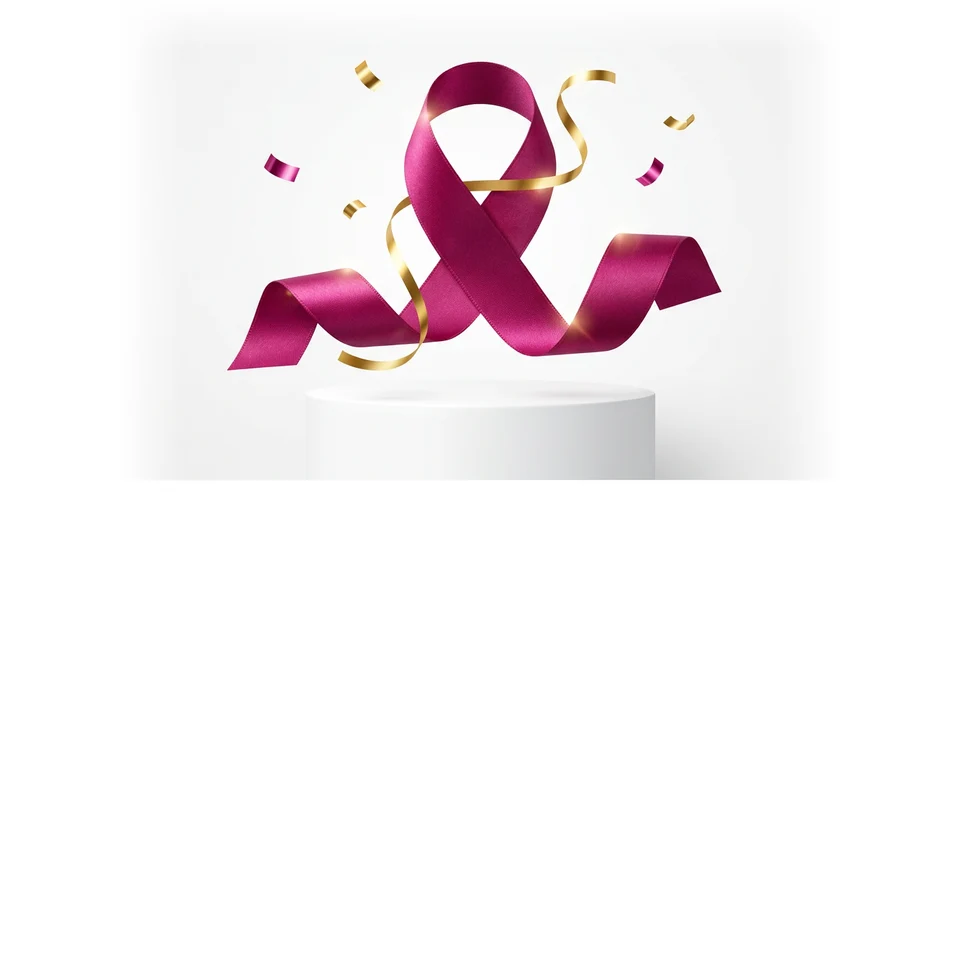
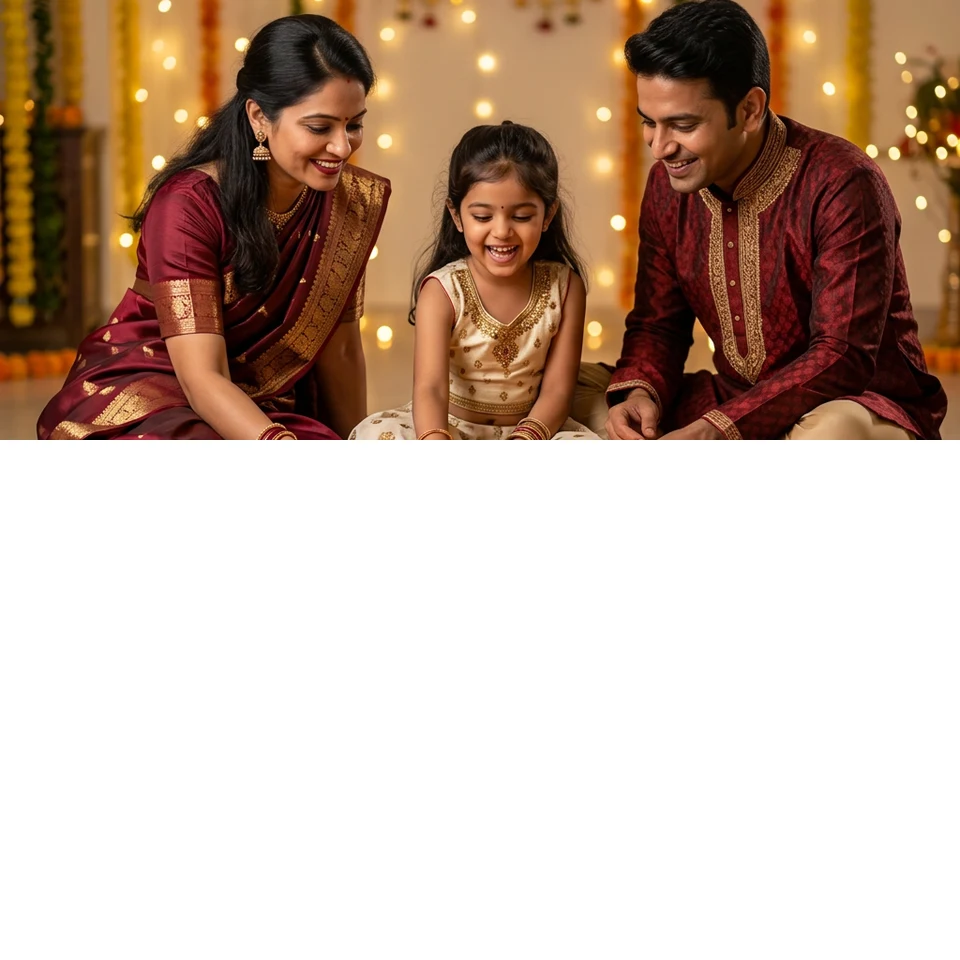
Refresh offer photos and contrast, highlight products and show popups on reload

diff --git a/revamp/src/app/globals.css b/revamp/src/app/globals.css
@@ -154,15 +154,15 @@
 }
 
 /* OFFER COLORS: the one intentional hard-coded palette exception.
-   Dark ink against every gradient endpoint exceeds WCAG AA 4.5:1. */
+   White text against every gradient endpoint exceeds WCAG AA 4.5:1. */
 :root {
-  --offer-ink: #071526;
-  --offer-new-start: #06b6d4;
-  --offer-new-end: #4ade80;
-  --offer-hot-start: #fb7185;
-  --offer-hot-end: #fb923c;
-  --offer-festive-start: #e879f9;
-  --offer-festive-end: #facc15;
+  --offer-ink: #ffffff;
+  --offer-new-start: #075985;
+  --offer-new-end: #065f46;
+  --offer-hot-start: #9f1239;
+  --offer-hot-end: #9a3412;
+  --offer-festive-start: #701a75;
+  --offer-festive-end: #92400e;
 }
 [data-tone="new"] {
   --offer-from: var(--offer-new-start);
@@ -181,7 +181,9 @@
   background: linear-gradient(110deg, var(--offer-from), var(--offer-to));
 }
 .offer-strip {
-  height: 40px;
+  position: relative;
+  height: 32px;
+  padding-right: 32px;
   overflow: hidden;
   font-size: 0.8125rem;
 }
@@ -195,13 +197,16 @@
   flex-shrink: 0;
   align-items: center;
   justify-content: center;
-  gap: 1rem;
-  min-width: 100vw;
-  height: 40px;
+  gap: 2.5rem;
+  min-width: max-content;
+  height: 32px;
   padding: 0 1.5rem;
   white-space: nowrap;
   animation: marquee-forward 28s linear infinite;
 }
+.offer-strip-message { display: inline-flex; align-items: center; gap: 0.75rem; }
+.offer-strip-close { position: absolute; inset: 0 0 0 auto; width: 32px; display: grid; place-items: center; cursor: pointer; }
+.offer-strip-close:hover { filter: brightness(1.15); }
 .offer-strip:hover .offer-strip-copy,
 .offer-strip:focus-within .offer-strip-copy {
   animation-play-state: paused;
@@ -212,11 +217,12 @@
   container-type: inline-size;
   animation: offer-popup-in 240ms ease-out;
 }
-.popup-copy { height: 49%; padding: 0 7% 6%; }
+.popup-copy { height: 51%; padding: 0 7% 5%; }
 .popup-eyebrow { font-size: 2.1cqi; line-height: 1.3; }
 .popup-heading { font-size: 6cqi; line-height: 1.08; }
-.popup-discount { font-size: 12cqi; line-height: 1.05; margin-top: 1cqi; }
+.popup-discount { font-size: 11cqi; line-height: 1.05; margin-top: 1cqi; }
 .popup-description { font-size: clamp(11px, 3cqi, 15px); line-height: 1.45; margin-top: 2cqi; max-width: 32ch; }
+.popup-products { color: var(--color-slate-950); background: var(--color-slate-100); font-size: clamp(13px, 3.8cqi, 19px); font-weight: 600; line-height: 1.25; padding: 1.5cqi 3cqi; border-radius: 2cqi; max-height: 13cqi; overflow-y: auto; }
 .popup-cta { margin-top: auto; height: 10cqi; min-height: 32px; border-radius: 3cqi; padding-inline: 5cqi; font-size: clamp(12px, 3cqi, 15px); }
 @container (max-width: 320px) {
   .popup-eyebrow { display: none; }
@@ -246,7 +252,9 @@
     min-width: 100%;
     padding: 0 0.75rem;
   }
-  .offer-strip-copy > span { overflow: hidden; text-overflow: ellipsis; }
+  .offer-strip-message { width: 100%; min-width: 0; }
+  .offer-strip-message > span { overflow: hidden; text-overflow: ellipsis; }
+  .offer-strip-message[aria-hidden="true"] { display: none; }
   .offer-strip-copy[aria-hidden="true"] { display: none; }
   .offer-popup, .offer-popup-overlay {
     animation: offer-fade-in 240ms ease-out !important;

diff --git a/revamp/src/components/offers/site-popup.tsx b/revamp/src/components/offers/site-popup.tsx
@@ -13,21 +13,19 @@ export function SitePopup() {
   const pathname = usePathname();
   const [open, setOpen] = useState(false);
   const previousFocus = useRef<HTMLElement | null>(null);
-  const key = `popup-seen-${offer?.id ?? "contact"}`;
+  const shown = useRef(false);
 
   useEffect(() => {
     setOpen(false);
     if (pathname.replace(/\/$/, "") === contact.contactPath) return;
-    try { if (localStorage.getItem(key)) return; } catch { /* Storage may be blocked. */ }
     let ready = false;
-    let shown = false;
     const tryOpen = () => {
-      if (shown) return;
+      if (shown.current) return;
       const hero = document.getElementById("top");
       const headerHeight = document.querySelector("header")?.getBoundingClientRect().height ?? 0;
       if (hero && hero.getBoundingClientRect().bottom <= headerHeight) ready = true;
       if (!ready || document.hidden || document.querySelector('[role="dialog"], [role="alertdialog"]')) return;
-      shown = true;
+      shown.current = true;
       previousFocus.current = document.activeElement as HTMLElement | null;
       setOpen(true);
     };
@@ -43,10 +41,9 @@ export function SitePopup() {
       window.removeEventListener("scroll", tryOpen);
       document.removeEventListener("visibilitychange", tryOpen);
     };
-  }, [key, pathname]);
+  }, [pathname]);
 
   const close = () => {
-    try { localStorage.setItem(key, "true"); } catch { /* Still close without storage. */ }
     setOpen(false);
   };
 
@@ -58,7 +55,7 @@ export function SitePopup() {
           data-site-popup
           aria-modal="true"
           data-tone={offer?.tone}
-          className="offer-popup fixed right-3 bottom-3 z-[111] overflow-hidden rounded-[1.75rem] border border-slate-200 bg-white text-slate-950 shadow-2xl sm:right-auto sm:bottom-auto sm:top-1/2 sm:left-1/2 sm:-translate-x-1/2 sm:-translate-y-1/2"
+          className="offer-popup fixed right-3 bottom-3 z-[111] overflow-hidden rounded-[1.75rem] border-0 bg-white text-slate-950 shadow-2xl sm:right-auto sm:bottom-auto sm:top-1/2 sm:left-1/2 sm:-translate-x-1/2 sm:-translate-y-1/2"
           onKeyDown={(event) => {
             // Keep the global search shortcut from opening a second modal.
             if ((event.ctrlKey || event.metaKey) && event.key.toLowerCase() === "k") event.stopPropagation();
@@ -83,7 +80,7 @@ export function SitePopup() {
               {offer?.heading ?? "Your next move, made simple."}
             </Dialog.Title>
             {offer && <p className="popup-discount font-bold tracking-[-0.06em]">{offer.discount}</p>}
-            <Dialog.Description className="popup-description text-slate-500">
+            <Dialog.Description className={offer ? "popup-description popup-products" : "popup-description text-slate-600"}>
               {offer ? offerProductNames : "Tell us what you need. We’ll help you find the right fit."}
             </Dialog.Description>
             <Link href={contact.contactPath} onClick={close} className={`${buttonVariants()} popup-cta ${offer ? "offer-colors" : ""}`} data-tone={offer?.tone}>

diff --git a/revamp/src/components/offers/offer-strip.tsx b/revamp/src/components/offers/offer-strip.tsx
@@ -1,23 +1,33 @@
+"use client";
+
+import { useState } from "react";
 import Link from "next/link";
+import { X } from "lucide-react";
 import { contact } from "@/config/variables";
 import { offer, offerProductNames } from "@/data/offer";
 
 export function OfferStrip() {
-  if (!offer) return null;
+  const [dismissed, setDismissed] = useState(false);
+  if (!offer || dismissed) return null;
   const { cta } = offer;
   const text = `${offer.heading}: ${offer.discount} on ${offerProductNames}`;
   return (
     <aside aria-label="Current offer" className="offer-strip offer-colors" data-tone={offer.tone}>
       <div className="offer-strip-track">
-        {[false, true].map((duplicate) => (
-          <div key={String(duplicate)} className="offer-strip-copy" aria-hidden={duplicate || undefined}>
-            <span title={text}>{text}</span>
-            <Link href={contact.contactPath} tabIndex={duplicate ? -1 : undefined} className="shrink-0 font-bold underline underline-offset-4">
-              {cta}
-            </Link>
+        {[0, 1].map((group) => (
+          <div key={group} className="offer-strip-copy" aria-hidden={group === 1 || undefined}>
+            {[0, 1, 2].map((repeat) => (
+              <span key={repeat} className="offer-strip-message" aria-hidden={repeat > 0 || undefined}>
+                <span title={text}>{text}</span>
+                <Link href={contact.contactPath} tabIndex={group || repeat ? -1 : undefined} className="shrink-0 font-bold underline underline-offset-4">{cta}</Link>
+              </span>
+            ))}
           </div>
         ))}
       </div>
+      <button type="button" className="offer-strip-close offer-colors" aria-label="Dismiss offer strip" onClick={() => setDismissed(true)}>
+        <X className="size-4" aria-hidden="true" />
+      </button>
     </aside>
   );
 }

diff --git a/revamp/scripts/offer.test.ts b/revamp/scripts/offer.test.ts
@@ -41,7 +41,7 @@ test("offer text exceeds 4.5:1 across every tone gradient", () => {
     const start = color(`${tone}-start`), end = color(`${tone}-end`);
     for (let step = 0; step <= 100; step++) {
       const background = luminance(start.map((c, i) => c + (end[i] - c) * step / 100));
-      assert.ok((background + 0.05) / (ink + 0.05) >= 4.5, `${tone}: ${step}%`);
+      assert.ok((Math.max(background, ink) + 0.05) / (Math.min(background, ink) + 0.05) >= 4.5, `${tone}: ${step}%`);
     }
   }
 });

diff --git a/revamp/src/data/offer.ts b/revamp/src/data/offer.ts
@@ -22,7 +22,7 @@ export const offer: Offer | null = {
   cta: "Claim offer",
 };
 
-id: Change it EVERY time. A new id shows the popup again to people who closed the old one.
+id: Use a new, descriptive identifier for each offer. Popups can show again on every reload.
 tone: Choose "new", "hot" or "festive"; tone chooses the colors and image.
 heading: The short name of your offer.
 discount: A discount such as "20% off". Never write rupee prices.

diff --git a/revamp/README.md b/revamp/README.md
@@ -109,28 +109,29 @@ To roll back, restore the backed-up files and hosting rules. Keep older `_next` 
 **Only edit `src/data/offer.ts` to add/remove an offer.** Its opening comment
 has filled all-product and two-product examples, field explanations and the
 handoff steps. Keep `offer = null` for the ordinary Contact popup. An offer
-object switches to the offer popup, the 40px strip and matching banner tags.
-Change its `id` for every new offer; use discounts, never rupee prices.
+object switches to the offer popup, the 32px strip and matching banner tags.
+Use a descriptive `id` for each offer; use discounts, never rupee prices.
 
 Product IDs come from `products.ts` and `catalogue.ts`. Incorrect IDs warn in
 development. The popup waits eight seconds or until the visitor scrolls past
 the homepage hero, whichever happens first, and waits for another dialog to
-close. It does not appear on `/contact`. Closing or clicking its button saves
-`popup-seen-<id>` in localStorage (`contact` for the ordinary popup).
+close. It does not appear on `/contact`. Closing or clicking its button hides it for the current page visit. No popup
+localStorage/sessionStorage is used: reloading makes it eligible again, after
+the usual delay or scroll trigger.
 
 Both variants link to the same `/contact` page as navigation; the enquiry form
 is not a modal, so there is no second modal or prefilled-message integration.
 The existing backend requirement still applies.
 
-The strip renders with the static HTML above the header, scrolls away normally
-and has no dismiss button. An enabled strip occupies 40px from the first paint;
+The strip renders above the header, scrolls away normally and has a dismiss
+button. Dismissal lasts until reload. An enabled strip occupies 32px from the first paint;
 it does not insert space later or change the header/stacking offsets. The popup
 is portalled and does not participate in hero layout. Reduced motion stops the
 marquee and uses a fade-only popup entrance.
 
 All four popups are square. Dedicated generated artwork is bundled in
-`public/popups/` for Contact, New, Hot and Festive, with no location photographs
-or gradient placeholders. `popupImages` in the offer data file selects them.
+`public/popups/` for Contact, New, Hot and Festive, with dedicated communication artwork for Contact and happy Indian business /
+festive family photography for offers, not gradient placeholders. `popupImages` in the offer data file selects them.
 The images ship locally so they work immediately; move them to ImageKit only
 after uploading, then update those four URLs in the same file. The original
 product-banner prompt has not been changed. Mobile square cards remain compact

diff --git a/revamp/VERIFICATION.md b/revamp/VERIFICATION.md
@@ -151,3 +151,26 @@ Tab trapping, Escape and dismissal storage. Mobile cards remain <=50dvh.
 No browser runtime errors occurred. Source artwork and browser screenshots are
 ignored local artifacts, not shipped source. Earlier placeholder/split-layout
 notes above describe the superseded implementation.
+
+## Repeat-on-reload and people-photo update
+
+Popup localStorage reads/writes were removed. Dismissal applies to the current
+page visit only; reloading resets eligibility, including when old popup-seen
+keys exist. The eight-second / past-hero trigger and /contact exclusion remain.
+New, Hot and Festive now use generated Indian people photography: new-business
+owners, a happy business win and a family Diwali celebration respectively.
+Contact retains its dedicated communication illustration.
+
+The square popup base has no border. Product names are larger, semibold and
+highlighted on a light panel. Offer buttons, strip and tags use white text on
+richer dark gradients, with automated >=4.5:1 contrast checks. The strip is now
+32px, repeats its message to avoid empty gaps, and has a labelled dismiss button.
+Removing it collapses its 32px space intentionally after the user's click;
+reload restores it. The original banner prompt is unchanged.
+Earlier persistence/color/40px-strip descriptions above are historical.
+
+Current browser checks passed for all four variants at 320×568 and 1366×768:
+square bounds, image decoding, borderless base, highlighted product names,
+no product/CTA overlap, repeated opening after reload despite old storage keys,
+and strip dismissal/reset. Final build/type checks, all nine tests and export
+SEO/icon audits pass. Final offer remains null.
